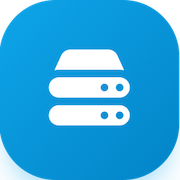
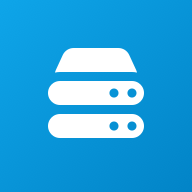
chore: 添加应用头部配置和更新苹果触控图标
主要改动：
1. 在 nuxt.config.ts 中添加应用头部配置，包括苹果触控图标和网站图标。
2. 更新 apple-touch-icon.png 文件以确保使用最新版本。

改进效果：
- 提升了应用的视觉识别度，确保用户在不同设备上获得一致的体验。

diff --git a/nuxt.config.ts b/nuxt.config.ts
@@ -3,6 +3,15 @@ export default defineNuxtConfig({
   compatibilityDate: '2025-07-15',
   devtools: { enabled: true },
 
+  app: {
+    head: {
+      link: [
+        { rel: 'apple-touch-icon', href: '/apple-touch-icon.png' },
+        { rel: 'icon', type: 'image/x-icon', href: '/favicon.ico' },
+      ],
+    },
+  },
+
   modules: [
     '@nuxtjs/tailwindcss',
     '@nuxtjs/color-mode',
